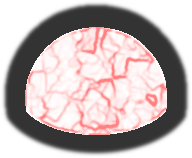
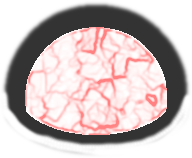
* Modify the king gloop base to reduce overlap * Leader attract on the gloops should be *much* higher * Add an outline to the king gloop so that, when alone, he looks more like the small gloops

Changed region(s): [[0.0, 0.5823, 1.0, 0.9873]]

diff --git a/Duologue/PlayObjects/Enemy_GloopKing.cs b/Duologue/PlayObjects/Enemy_GloopKing.cs
@@ -43,6 +43,8 @@ namespace Duologue.PlayObjects
         private const int bodyFrames = 7;
         private const int deathFrames = 5;
 
+        private const float outlineScale = 1.05f;
+
         /// <summary>
         /// The point value I would be if I were hit at perfect beat
         /// </summary>
@@ -417,6 +419,18 @@ namespace Duologue.PlayObjects
             }
             else
             {
+                // Outline
+                InstanceManager.RenderSprite.Draw(
+                    kingBody[currentFrame],
+                    Position,
+                    kingCenter,
+                    null,
+                    Color.Black,
+                    0f,
+                    outlineScale,
+                    0f,
+                    RenderSpriteBlendMode.AlphaBlend);
+
                 // Draw the base
                 InstanceManager.RenderSprite.Draw(
                     kingBase,

diff --git a/Duologue/PlayObjects/Enemy_Gloop.cs b/Duologue/PlayObjects/Enemy_Gloop.cs
@@ -70,7 +70,7 @@ namespace Duologue.PlayObjects
         /// <summary>
         /// Attraction to the leader
         /// </summary>
-        private const float leaderAttract = 2f;
+        private const float leaderAttract = 5f;
 
         /// <summary>
         /// The player attract modifier
